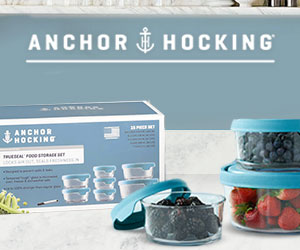
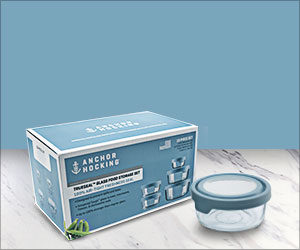
Creative update

diff --git a/app/300x250/scripts/Animation.js b/app/300x250/scripts/Animation.js
@@ -12,13 +12,14 @@ app.Animation = (function () {
     var lid = document.getElementById('lid');
     var txt1 = document.getElementById('txt1');
     var txt2 = document.getElementById('txt2');
-    // var txt3 = document.getElementById('txt3');
     var logo = document.getElementById('logo');
     var resolve_bg = document.getElementById('resolve_bg');
-    // var resolve_txt1 = document.getElementById('resolve_txt1');
+    var resolve_txt1 = document.getElementById('resolve_txt1');
     var resolve_txt2a = document.getElementById('resolve_txt2a');
     var resolve_txt2b = document.getElementById('resolve_txt2b');
     var resolve_txt2c = document.getElementById('resolve_txt2c');
+    var resolve_logo = document.getElementById('resolve_logo');
+
     var cta = document.getElementById('cta');
 
     var buttonExit = document.getElementById('button-exit');
@@ -54,14 +55,12 @@ app.Animation = (function () {
         tl2.from(txt2, .5, {opacity: 0}, "+=5")
             .to(txt2, .5, {opacity: 0}, "+=1.5")
 
-            // .from(txt3, .5, {opacity: 0})
-            // .to(txt3, .5, {opacity: 0}, "+=1.5")
-
             .to(table, 1, {x:"-=300", ease: Cubic.easeInOut})
             .to(logo, 1, {x:"-=300", ease: Cubic.easeInOut}, "-=1")
             .to(resolve_bg, 1, {x:"-=300", ease: Cubic.easeInOut}, "-=1")
-            // .to(resolve_txt1, .5, {opacity:1})
-            // .to(resolve_txt1, .5, {opacity:0}, "+=2")
+            .to(resolve_txt1, 1, {x:"-=300", ease: Cubic.easeInOut}, "-=1")
+            .to(resolve_txt1, .5, {opacity:0}, "+=2")
+            .to(resolve_logo, .5, {opacity:1})
 
             .to(resolve_txt2a, .2, {opacity:1})
             .to(resolve_txt2b, .2, {opacity:1}, "+=.5")

diff --git a/app/300x250/styles/_layout.scss b/app/300x250/styles/_layout.scss
@@ -37,12 +37,6 @@ body {
         position: absolute;
     }
 
-    //#txt3 {
-    //    top: 0;
-    //    left: 0;
-    //    position: absolute;
-    //}
-
     #logo {
         bottom: 0;
         left: 0;
@@ -55,42 +49,49 @@ body {
         position: absolute;
     }
 
-    //#resolve_txt1 {
-    //    top: 65px;
-    //    left: 0;
-    //    opacity:0;
-    //    position: absolute;
-    //}
+    #resolve_txt1 {
+        top: 0;
+        left: 300px;
+        //opacity:0;
+        position: absolute;
+    }
 
     #resolve_txt2a {
-        top: 65px;
+        top: 0;
         left: 0;
         opacity:0;
         position: absolute;
-        clip: rect(0px, 93px, 33px, 0px);
+        clip: rect(0px, 95px, 65px, 0px);
     }
 
     #resolve_txt2b {
-        top: 65px;
+        top: 0;
         left: 0;
         opacity:0;
         position: absolute;
-        clip: rect(0px, 192px, 33px, 93px);
+        clip: rect(0px, 189px, 65px, 95px);
     }
 
     #resolve_txt2c {
-        top: 65px;
+        top: 0;
         left: 0;
         opacity:0;
         position: absolute;
-        clip: rect(0px, 300px, 33px, 192px);
+        clip: rect(0px, 263px, 65px, 189px);
+    }
+
+    #resolve_logo {
+        top: 0;
+        left: 0;
+        opacity:0;
+        position: absolute;
     }
 
     #cta {
-        width: 114px;
-        height: 36px;
-        left: 94px;
-        top: 102px;
+        width: 98px;
+        height: 31px;
+        left: 105px;
+        top: 74px;
         background-color: rgba(0, 32, 92, 1);
         opacity:0;
         position: absolute;

diff --git a/app/300x250/index.html b/app/300x250/index.html
@@ -26,14 +26,14 @@
 
     <img id="txt1" src="images/txt1.png" alt=""/>
     <img id="txt2" src="images/txt2.png" alt=""/>
-    <!--<img id="txt3" src="images/txt3.png" alt=""/>-->
     <img id="logo" src="images/logo.jpg" alt=""/>
 
     <img id="resolve_bg" src="images/resolve_bg.jpg" alt=""/>
-    <!--<img id="resolve_txt1" src="images/resolve_txt1.png" alt=""/>-->
+    <img id="resolve_txt1" src="images/resolve_txt1.png" alt=""/>
     <img id="resolve_txt2a" src="images/resolve_txt2.png" alt=""/>
     <img id="resolve_txt2b" src="images/resolve_txt2.png" alt=""/>
     <img id="resolve_txt2c" src="images/resolve_txt2.png" alt=""/>
+    <img id="resolve_logo" src="images/logo.png" alt=""/>
 
     <div id="cta">
         <img id="cta_txt" src="images/cta_txt.png" alt=""/>
